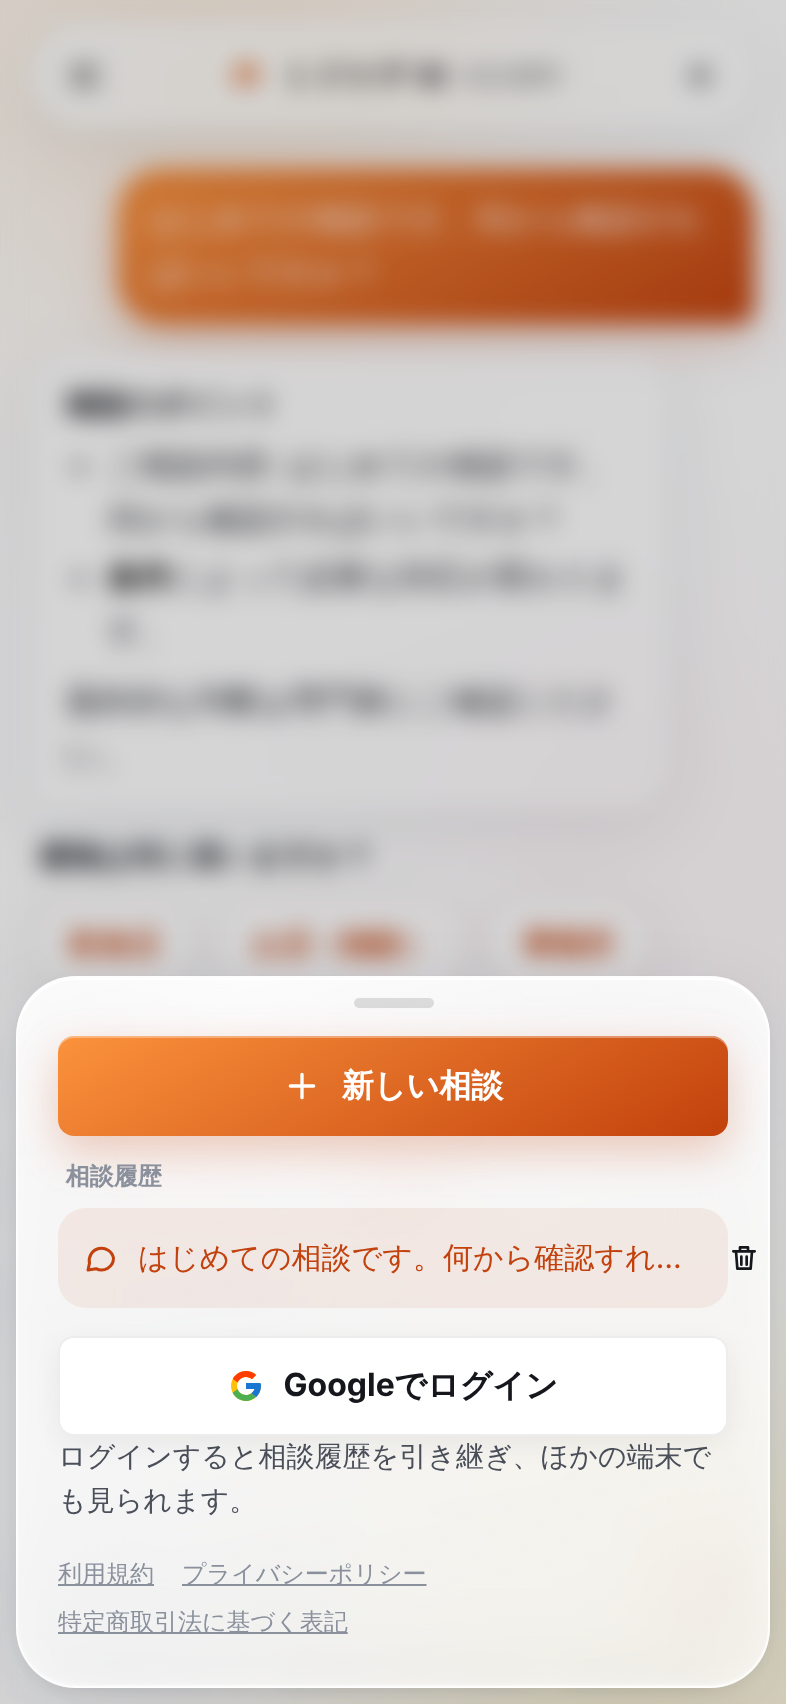
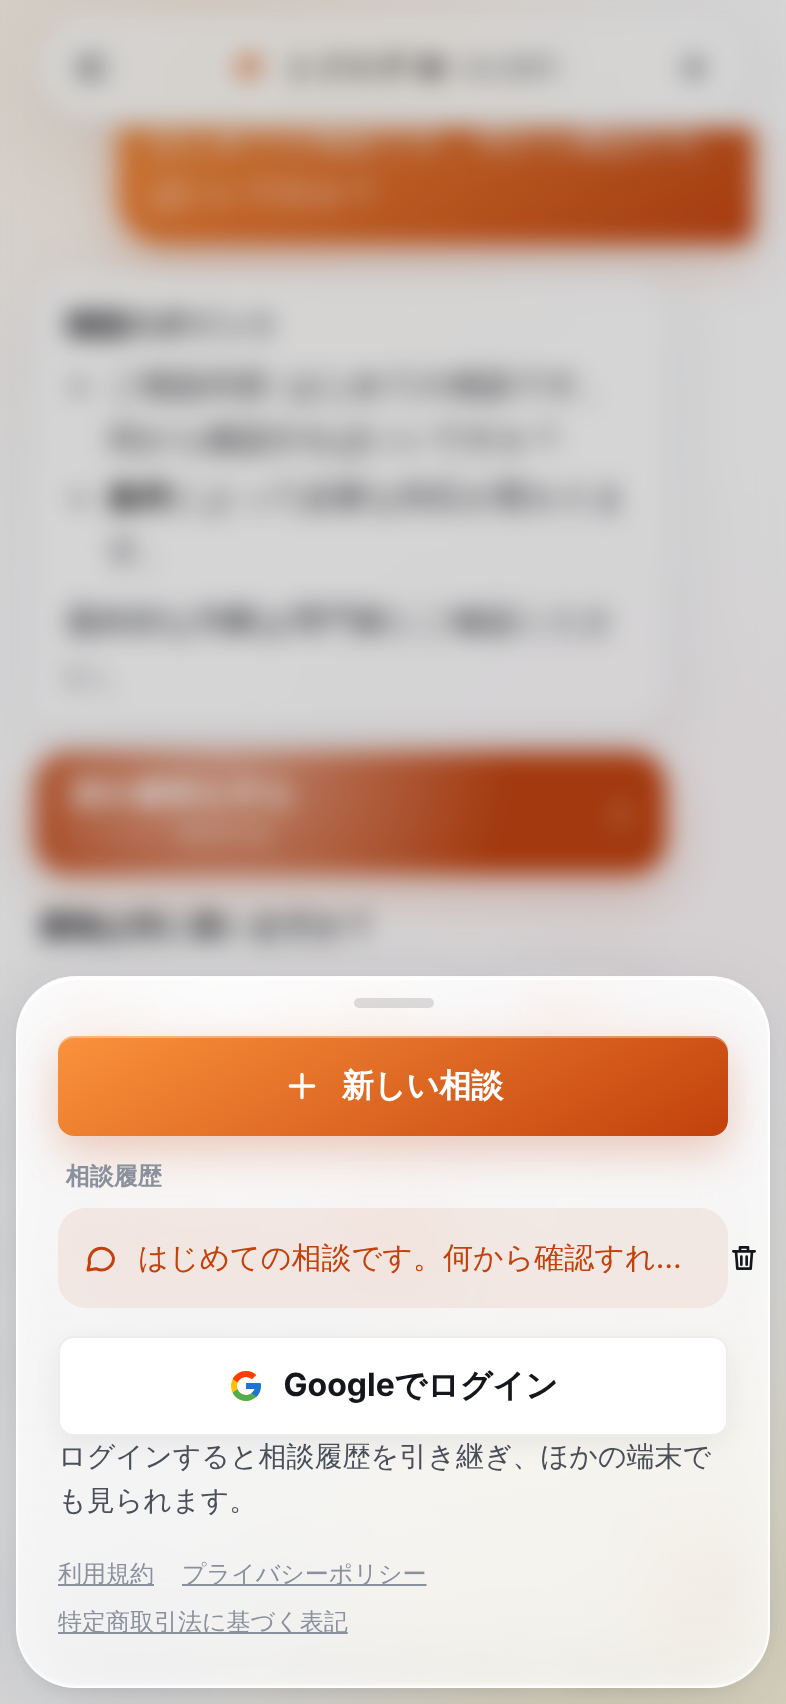
トドケデのツールを先に、消防署への電話は小さな文字リンクに。入口の押下回数を記録する
- 電話（119番以外）はボタンをやめ、回答の一番下に小さな文字リンクで出す
- 回答の締めくくりを「トドケデで作る → 出す前に消防署で確認」の順にさせる
- 書類作成・消防計画・電話・専門家への依頼の押下を action_clicks に記録（/api/click）

Claude-Session: https://claude.ai/code/session_01Je62ME1Ubmvs8C4cD5eQhZ

Changed region(s): [[0.0, 0.0622, 1.0, 0.591], [0.7634, 0.2799, 0.7939, 0.3421], [0.7328, 0.3421, 0.7634, 0.3732]]

diff --git a/src/client/App.tsx b/src/client/App.tsx
@@ -616,7 +616,14 @@ function Handoff({ escalation, onOpen }: { escalation: EscalationRef; onOpen: (e
             ご依頼を受け付けました
           </span>
         ) : (
-          <button class="btn btn-primary rp" data-testid="handoff-open" onClick={() => onOpen(escalation)}>
+          <button
+            class="btn btn-primary rp"
+            data-testid="handoff-open"
+            onClick={() => {
+              trackClick("handoff", escalation.lane);
+              onOpen(escalation);
+            }}
+          >
             {copy.action}
           </button>
         ))}
@@ -624,21 +631,37 @@ function Handoff({ escalation, onOpen }: { escalation: EscalationRef; onOpen: (e
   );
 }
 
-// 回答の下のボタンと選択肢（LINE のように押すだけで進める）。いちばん新しい回答にだけ出す
+// 押された入口を数える（トドケデのツール・電話・専門家への依頼のどれに流れたか）。失敗しても画面には影響させない
+function trackClick(kind: "link" | "tel" | "handoff", label: string) {
+  try {
+    navigator.sendBeacon?.("/api/click", JSON.stringify({ kind, label }));
+  } catch {
+    /* 計測は best effort */
+  }
+}
+
+// 回答の下のボタンと選択肢（LINE のように押すだけで進める）。いちばん新しい回答にだけ出す。
+// トドケデのツールを大きく、消防署への電話は一番下に小さな文字で出す（119番だけは大きく）
 function AnswerActionsView({ actions, onReply }: { actions: AnswerActions; onReply: (text: string) => void }) {
+  const isBig = (b: AnswerActions["buttons"][number]) => b.kind === "link" || b.href === "tel:119";
+  const big = actions.buttons.filter(isBig);
+  const small = actions.buttons.filter((b) => !isBig(b));
   return (
     <div class="answer-actions" data-testid="answer-actions">
-      {actions.buttons.length > 0 && (
+      {big.length > 0 && (
         <div class="action-buttons">
-          {actions.buttons.map((b, i) => (
+          {big.map((b, i) => (
             <a
               key={b.href}
-              class={`action-btn glass rp${i === 0 && b.kind === "link" ? " primary" : ""}${b.kind === "tel" ? " tel" : ""}`}
+              class={`action-btn glass rp${i === 0 ? " primary" : ""}${b.kind === "tel" ? " tel" : ""}`}
               href={b.href}
               {...(b.kind === "link" ? { target: "_blank", rel: "noopener" } : {})}
               data-testid="action-button"
               style={{ animationDelay: `${0.05 + i * 0.06}s` }}
-              onClick={addRipple}
+              onClick={(e) => {
+                addRipple(e);
+                trackClick(b.kind, b.label);
+              }}
             >
               <span class="action-label">{b.label}</span>
               {b.sub && <span class="action-sub">{b.sub}</span>}
@@ -670,6 +693,12 @@ function AnswerActionsView({ actions, onReply }: { actions: AnswerActions; onRep
           </div>
         </div>
       )}
+      {small.map((b) => (
+        <a key={b.href} class="action-tel-link" href={b.href} data-testid="action-tel-link" onClick={() => trackClick("tel", b.label)}>
+          {b.label}
+          {b.sub ? `（${b.sub}）` : ""}
+        </a>
+      ))}
     </div>
   );
 }

diff --git a/src/worker/actions.ts b/src/worker/actions.ts
@@ -130,6 +130,8 @@ export function buildActions(input: { userTexts: string[]; rules: RulesResult | 
 export function actionsNote(a: Actions): string {
   const out = ["# 画面のボタン（本文の書き方に反映する）"];
   out.push("URL は本文に書かないでください。");
+  if (a.buttons.some((b) => b.kind === "link"))
+    out.push("締めくくりは「下のボタンからトドケデで書類を作り、出す前に所轄の消防署で確認してください」のように、作成が先・消防署での確認が後の順で1文にしてください。消防署への電話や相談を先に勧めないでください。消防署の電話番号は書かないでください（画面に小さく表示されます）。");
   if (a.buttons.length) out.push(`この回答の下に表示されるボタン: ${a.buttons.map((b) => `「${b.label}」`).join("")}。案内するときは「下のボタンから」と書くだけにし、ボタンの名前・URL・電話番号を本文に書き出さないでください。`);
   // 電話のボタンだけのときも、作成ツールには触れさせない（ボタンが無いのに「下のボタンから作れます」と書くため）
   if (!a.buttons.some((b) => b.kind === "link"))

diff --git a/src/worker/index.ts b/src/worker/index.ts
@@ -47,6 +47,17 @@ app.route("/api/conversations", conversations);
 app.route("/api/escalations", escalations);
 app.route("/api/admin/escalations", adminEscalations);
 app.route("/api/billing", billing);
+// 回答の下の入口が押された回数（どこに流れたかを測る）。本文は sendBeacon の JSON 文字列
+app.post("/api/click", async (c) => {
+  const body = (await c.req.text().then((t) => JSON.parse(t)).catch(() => null)) as { kind?: string; label?: string } | null;
+  const kind = body?.kind;
+  const label = typeof body?.label === "string" ? body.label.slice(0, 40) : "";
+  if (!kind || !["link", "tel", "handoff"].includes(kind) || !label) return c.json({ error: "bad_request" }, 400);
+  await c.env.DB.prepare("INSERT INTO action_clicks (id, kind, label, created_at) VALUES (?, ?, ?, ?)")
+    .bind(crypto.randomUUID(), kind, label, Date.now())
+    .run();
+  return c.body(null, 204);
+});
 app.route("/api/stripe/webhook", stripeWebhook);
 
 // Local E2E only: move the first consultation back past the former 24-hour free period,

diff --git a/cities/kumamoto/prompt.ts b/cities/kumamoto/prompt.ts
@@ -49,6 +49,6 @@ ${stationLines}
 - 結論を先に、短く。全体で500字程度までにし、必要なら箇条書きを使います。
 - 見出しは「###」まで。表は使いません。絵文字・感嘆符は使いません。
 - 情報が足りない場合は、推測で埋めずに確認したい項目を最大3つ質問します。
-- 最後に必要な場合だけ、確認先（建物の所在地を管轄する消防署など）を1行で示します。`;
+- 消防署での確認は、書類を作ったあとの手順として最後に一言添えるだけにします。電話番号と URL は書きません（画面に表示されます）。`;
 
 export const ASSISTANT_FALLBACK = "回答を生成できませんでした。時間をおいてもう一度お試しください。緊急時は119番へ。";

diff --git a/cities/chiba/prompt.ts b/cities/chiba/prompt.ts
@@ -55,6 +55,6 @@ ${stationLines}
 - 結論を先に、短く。全体で500字程度までにし、必要なら箇条書きを使います。
 - 見出しは「###」まで。表は使いません。絵文字・感嘆符は使いません。
 - 情報が足りない場合は、推測で埋めずに確認したい項目を最大3つ質問します。
-- 最後に必要な場合だけ、確認先（所在区の消防署など）を1行で示します。`;
+- 消防署での確認は、書類を作ったあとの手順として最後に一言添えるだけにします。電話番号と URL は書きません（画面に表示されます）。`;
 
 export const ASSISTANT_FALLBACK = "回答を生成できませんでした。時間をおいてもう一度お試しください。緊急時は119番へ。";

diff --git a/cities/fukuoka/prompt.ts b/cities/fukuoka/prompt.ts
@@ -51,6 +51,6 @@ ${stationLines}
 - 結論を先に、短く。全体で500字程度までにし、必要なら箇条書きを使います。
 - 見出しは「###」まで。表は使いません。絵文字・感嘆符は使いません。
 - 情報が足りない場合は、推測で埋めずに確認したい項目を最大3つ質問します。
-- 最後に必要な場合だけ、確認先（所在区の消防署など）を1行で示します。`;
+- 消防署での確認は、書類を作ったあとの手順として最後に一言添えるだけにします。電話番号と URL は書きません（画面に表示されます）。`;
 
 export const ASSISTANT_FALLBACK = "回答を生成できませんでした。時間をおいてもう一度お試しください。緊急時は119番へ。";

diff --git a/cities/hiroshima/prompt.ts b/cities/hiroshima/prompt.ts
@@ -49,6 +49,6 @@ ${stationLines}
 - 結論を先に、短く。全体で500字程度までにし、必要なら箇条書きを使います。
 - 見出しは「###」まで。表は使いません。絵文字・感嘆符は使いません。
 - 情報が足りない場合は、推測で埋めずに確認したい項目を最大3つ質問します。
-- 最後に必要な場合だけ、確認先（所在区の消防署など）を1行で示します。`;
+- 消防署での確認は、書類を作ったあとの手順として最後に一言添えるだけにします。電話番号と URL は書きません（画面に表示されます）。`;
 
 export const ASSISTANT_FALLBACK = "回答を生成できませんでした。時間をおいてもう一度お試しください。緊急時は119番へ。";

diff --git a/cities/kitakyushu/prompt.ts b/cities/kitakyushu/prompt.ts
@@ -47,6 +47,6 @@ ${stationLines}
 - 結論を先に、短く。全体で500字程度までにし、必要なら箇条書きを使います。
 - 見出しは「###」まで。表は使いません。絵文字・感嘆符は使いません。
 - 情報が足りない場合は、推測で埋めずに確認したい項目を最大3つ質問します。
-- 最後に必要な場合だけ、確認先（所在区の消防署など）を1行で示します。`;
+- 消防署での確認は、書類を作ったあとの手順として最後に一言添えるだけにします。電話番号と URL は書きません（画面に表示されます）。`;
 
 export const ASSISTANT_FALLBACK = "回答を生成できませんでした。時間をおいてもう一度お試しください。緊急時は119番へ。";

diff --git a/cities/niigata/prompt.ts b/cities/niigata/prompt.ts
@@ -51,6 +51,6 @@ ${stationLines}
 - 結論を先に、短く。全体で500字程度までにし、必要なら箇条書きを使います。
 - 見出しは「###」まで。表は使いません。絵文字・感嘆符は使いません。
 - 情報が足りない場合は、推測で埋めずに確認したい項目を最大3つ質問します。
-- 最後に必要な場合だけ、確認先（所在区の消防署など）を1行で示します。`;
+- 消防署での確認は、書類を作ったあとの手順として最後に一言添えるだけにします。電話番号と URL は書きません（画面に表示されます）。`;
 
 export const ASSISTANT_FALLBACK = "回答を生成できませんでした。時間をおいてもう一度お試しください。緊急時は119番へ。";

diff --git a/cities/osaka/prompt.ts b/cities/osaka/prompt.ts
@@ -45,6 +45,6 @@ ${stationLines}
 - 結論を先に、短く。全体で500字程度までにし、必要なら箇条書きを使います。
 - 見出しは「###」まで。表は使いません。絵文字・感嘆符は使いません。
 - 情報が足りない場合は、推測で埋めずに確認したい項目を最大3つ質問します。
-- 最後に必要な場合だけ、確認先（所在区の消防署など）を1行で示します。`;
+- 消防署での確認は、書類を作ったあとの手順として最後に一言添えるだけにします。電話番号と URL は書きません（画面に表示されます）。`;
 
 export const ASSISTANT_FALLBACK = "回答を生成できませんでした。時間をおいてもう一度お試しください。緊急時は119番へ。";

diff --git a/cities/sagamihara/prompt.ts b/cities/sagamihara/prompt.ts
@@ -53,6 +53,6 @@ ${stationLines}
 - 結論を先に、短く。全体で500字程度までにし、必要なら箇条書きを使います。
 - 見出しは「###」まで。表は使いません。絵文字・感嘆符は使いません。
 - 情報が足りない場合は、推測で埋めずに確認したい項目を最大3つ質問します。
-- 最後に必要な場合だけ、確認先（所在区の消防署など）を1行で示します。`;
+- 消防署での確認は、書類を作ったあとの手順として最後に一言添えるだけにします。電話番号と URL は書きません（画面に表示されます）。`;
 
 export const ASSISTANT_FALLBACK = "回答を生成できませんでした。時間をおいてもう一度お試しください。緊急時は119番へ。";
